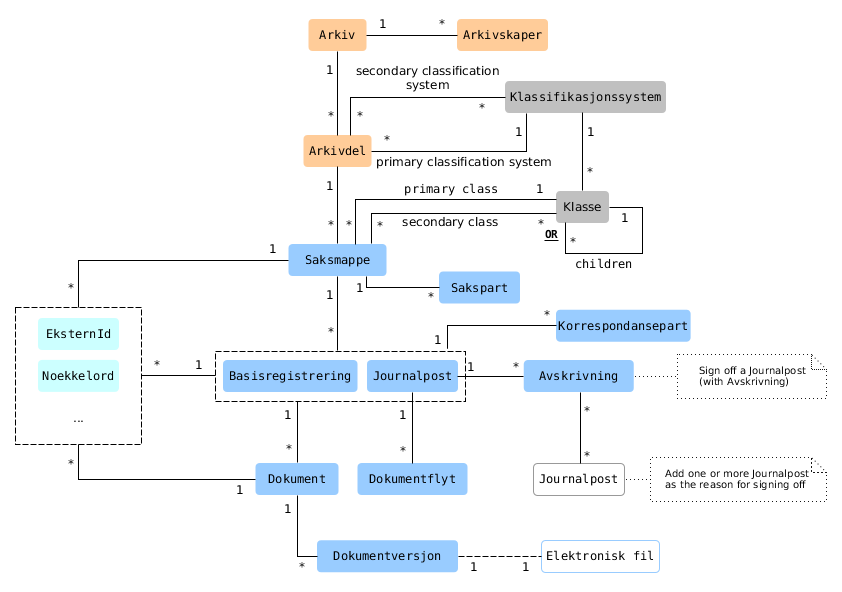
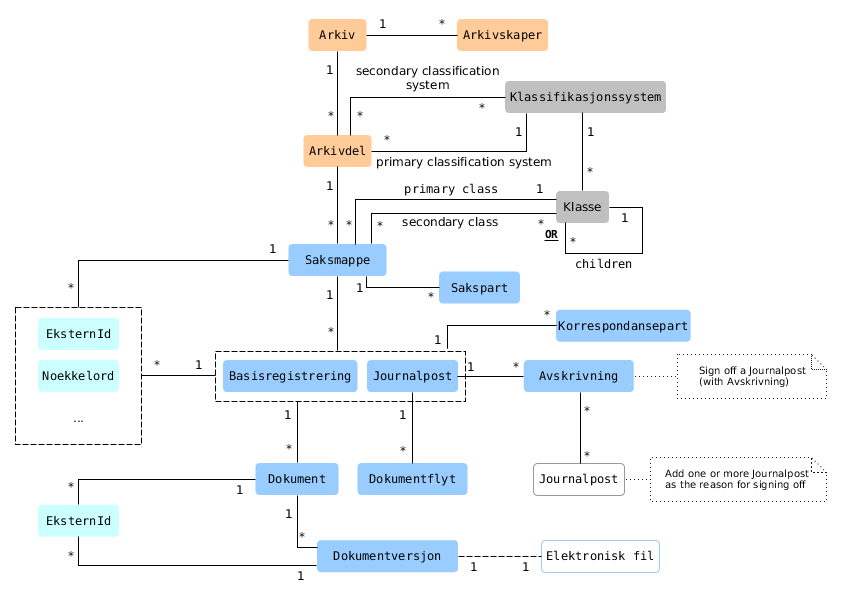
Add external IDs to Document objects

diff --git a/version1/02 - Object types.md b/version1/02 - Object types.md
@@ -566,27 +566,29 @@ The following notation is used in the tables below:
 | M707      | number    | filstoerrelse          |    x     |      x      |               |  |  sm  |  x   |   x   |  x   |      |        |                                                                    |
 | M218      | string    | referanseDokumentfil   |    x     |             |               |  |  x   |  x   |   x   |  x   |      |        | <p>&bull; unique identifier of a document stored in the system</p> |
 |           |           |                        |          |             |               |  |      |      |       |      |      |        |                                                                    |
-|           | ref       | refDokument            |    x     |             |               |  |      |  x   |   x   |      |  x   |   x    | &nbsp;                                                             |
+|           | ref       | refDokument            |    x     |             |               |  |      |  x   |   x   |      |  x   |   x    |                                                                    |
+|           | ref       | refEksternId           |          |             |               |  |      |      |   x   |      |  x   |        | &nbsp;                                                             |
 
 ## Other
 
 ### EksternId
 
-| Field no. | Type      | Field                  | Not null | Has default | Code list |  | Save | View | Query | Sort | Link | Unlink | Comment                                                                                                                                         |
-|:----------|:----------|:-----------------------|:--------:|:-----------:|:----------|:-|:----:|:----:|:-----:|:----:|:----:|:------:|:------------------------------------------------------------------------------------------------------------------------------------------------|
-|           | string    | id                     |    x     |      x      |           |  |  sm  |  x   |   x   |  x   |      |        |                                                                                                                                                 |
-|           | string    | version                |    x     |      x      |           |  |  sm  |  x   |   x   |      |      |        |                                                                                                                                                 |
-|           |           |                        |          |             |           |  |      |      |       |      |      |        |                                                                                                                                                 |
-| M001      | string    | uuid                   |    x     |      x      |           |  |  cw  |  x   |   x   |  x   |      |        |                                                                                                                                                 |
-| M600      | timestamp | opprettetDato          |    x     |      x      |           |  |  cw  |  x   |   x   |  x   |      |        |                                                                                                                                                 |
-| M601      | string    | opprettetAv            |    x     |      x      |           |  |  cw  |  x   |   x   |  x   |      |        |                                                                                                                                                 |
-| M601      | string    | opprettetAvBrukerIdent |    x     |      x      |           |  |  cw  |  x   |   x   |  x   |      |        |                                                                                                                                                 |
-|           | string    | eksterntSystem         |    x     |             |           |  |  x   |  x   |   x   |  x   |      |        |                                                                                                                                                 |
-|           | string    | eksternID              |    x     |             |           |  |  x   |  x   |   x   |  x   |      |        |                                                                                                                                                 |
-|           |           |                        |          |             |           |  |      |      |       |      |      |        |                                                                                                                                                 |
-|           | ref       | refMappe               |    c     |             |           |  |      |  x   |   x   |      |  x   |        | <p>&bull; references **AbstraktMappe**</p><p>&bull; exactly one of **refMappe**, **refRegistrering**, or **refDokument** is required</p>        |
-|           | ref       | refRegistrering        |    c     |             |           |  |      |  x   |   x   |      |  x   |        | <p>&bull; references **AbstraktRegistrering**</p><p>&bull; exactly one of **refMappe**, **refRegistrering**, or **refDokument** is required</p> |
-|           | ref       | refDokument            |    c     |             |           |  |      |  x   |   x   |      |  x   |        | <p>&bull; exactly one of **refMappe**, **refRegistrering**, or **refDokument** is required</p>                                                  |
+| Field no. | Type      | Field                  | Not null | Has default | Code list |  | Save | View | Query | Sort | Link | Unlink | Comment                                                                                                                                                                 |
+|:----------|:----------|:-----------------------|:--------:|:-----------:|:----------|:-|:----:|:----:|:-----:|:----:|:----:|:------:|:------------------------------------------------------------------------------------------------------------------------------------------------------------------------|
+|           | string    | id                     |    x     |      x      |           |  |  sm  |  x   |   x   |  x   |      |        |                                                                                                                                                                         |
+|           | string    | version                |    x     |      x      |           |  |  sm  |  x   |   x   |      |      |        |                                                                                                                                                                         |
+|           |           |                        |          |             |           |  |      |      |       |      |      |        |                                                                                                                                                                         |
+| M001      | string    | uuid                   |    x     |      x      |           |  |  cw  |  x   |   x   |  x   |      |        |                                                                                                                                                                         |
+| M600      | timestamp | opprettetDato          |    x     |      x      |           |  |  cw  |  x   |   x   |  x   |      |        |                                                                                                                                                                         |
+| M601      | string    | opprettetAv            |    x     |      x      |           |  |  cw  |  x   |   x   |  x   |      |        |                                                                                                                                                                         |
+| M601      | string    | opprettetAvBrukerIdent |    x     |      x      |           |  |  cw  |  x   |   x   |  x   |      |        |                                                                                                                                                                         |
+|           | string    | eksterntSystem         |    x     |             |           |  |  x   |  x   |   x   |  x   |      |        |                                                                                                                                                                         |
+|           | string    | eksternID              |    x     |             |           |  |  x   |  x   |   x   |  x   |      |        |                                                                                                                                                                         |
+|           |           |                        |          |             |           |  |      |      |       |      |      |        |                                                                                                                                                                         |
+|           | ref       | refMappe               |    c     |             |           |  |      |  x   |   x   |      |  x   |        | <p>&bull; references **AbstraktMappe**</p><p>&bull; exactly one of **refMappe**, **refRegistrering**, **refDokument**, or **refDokumentversjon** is required</p>        |
+|           | ref       | refRegistrering        |    c     |             |           |  |      |  x   |   x   |      |  x   |        | <p>&bull; references **AbstraktRegistrering**</p><p>&bull; exactly one of **refMappe**, **refRegistrering**, **refDokument**, or **refDokumentversjon** is required</p> |
+|           | ref       | refDokument            |    c     |             |           |  |      |  x   |   x   |      |  x   |        | <p>&bull; exactly one of **refMappe**, **refRegistrering**, **refDokument**, or **refDokumentversjon** is required</p>                                                  |
+|           | ref       | refDokumentversjon     |    c     |             |           |  |      |  x   |   x   |      |  x   |        | <p>&bull; exactly one of **refMappe**, **refRegistrering**, **refDokument**, or **refDokumentversjon** is required</p>                                                  |
 
 ### Noekkelord
 
